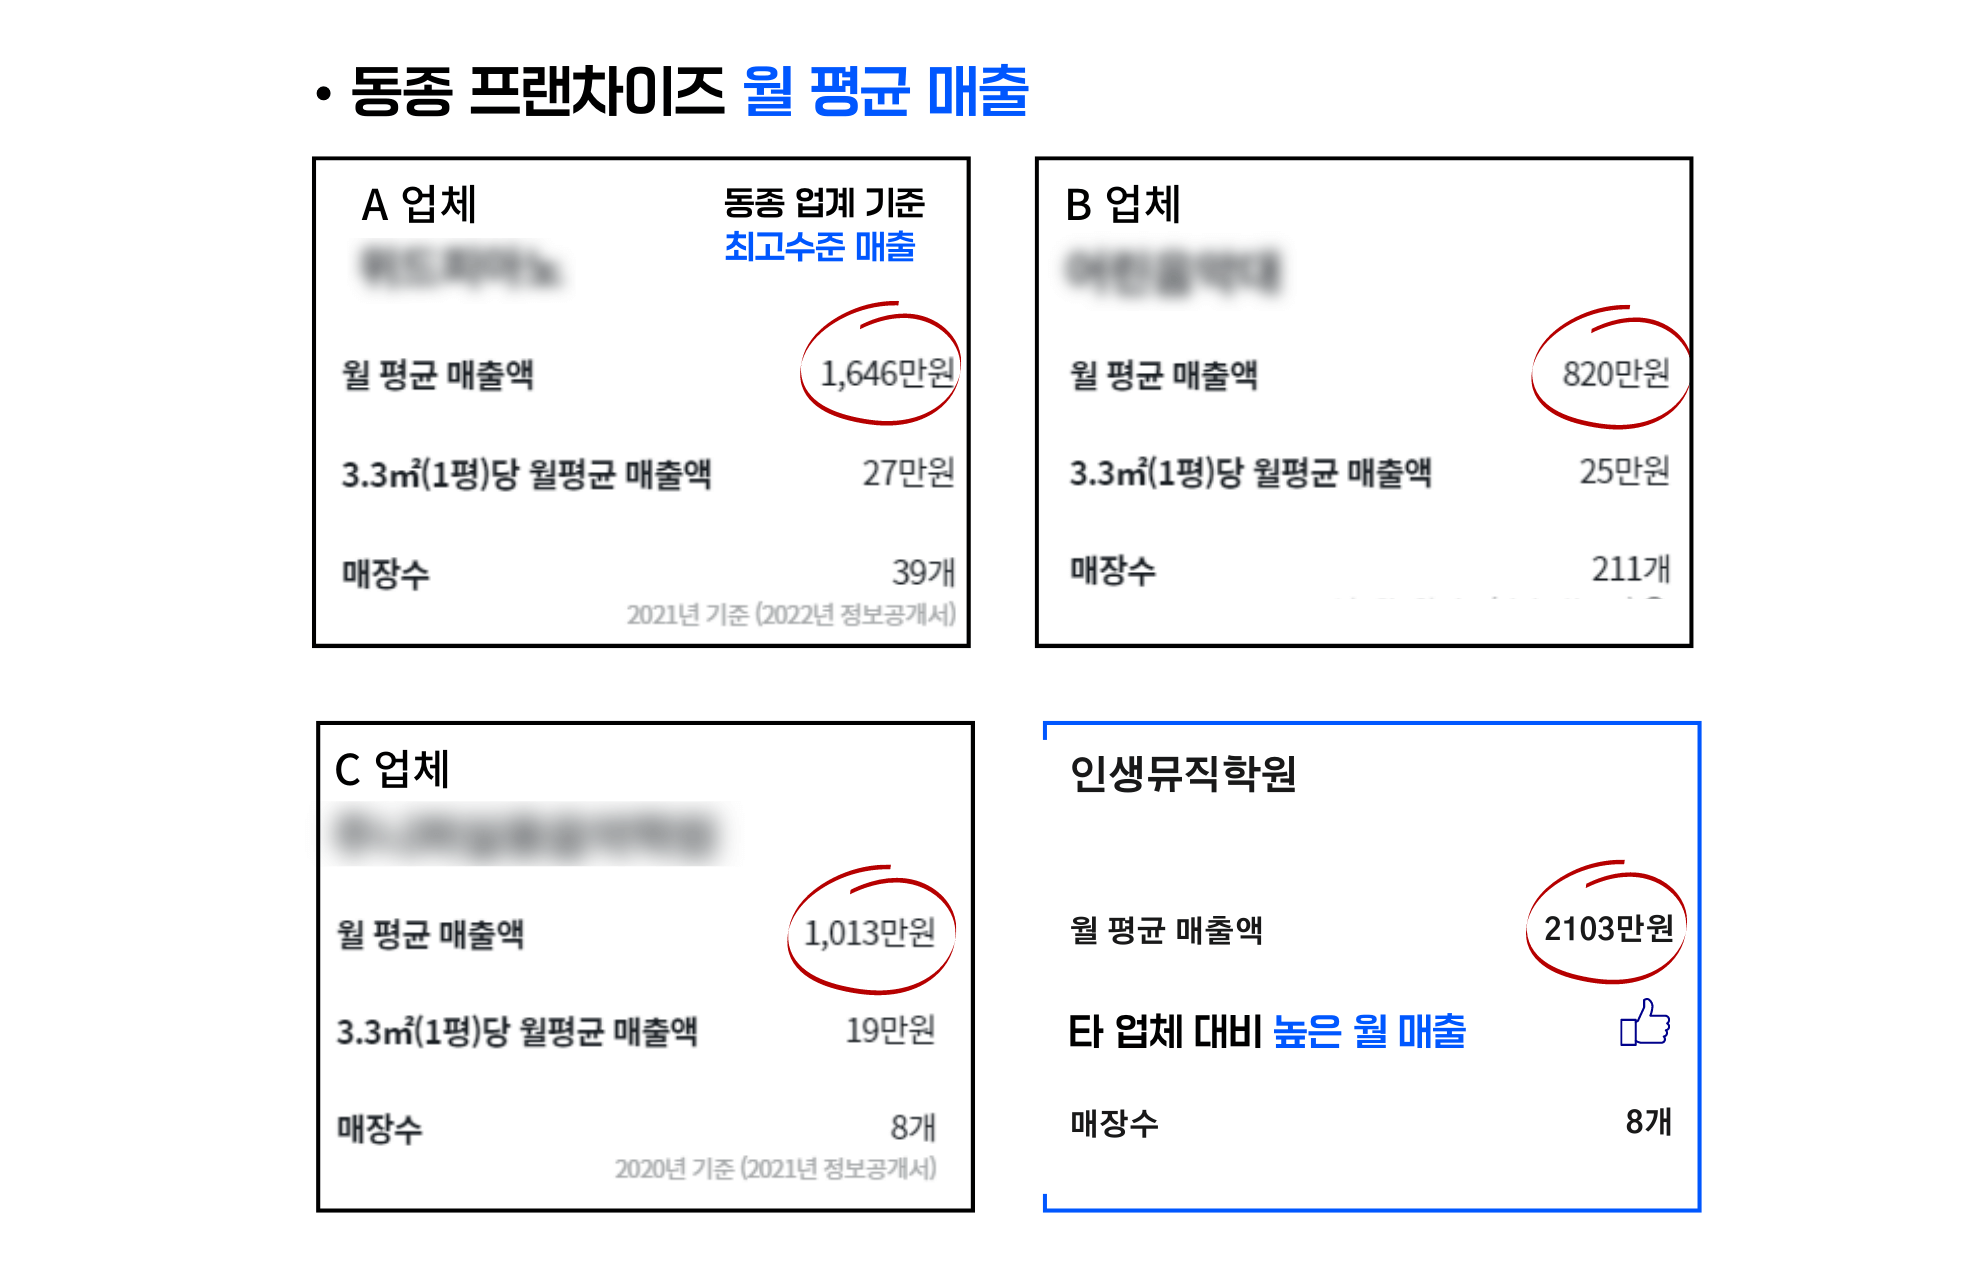
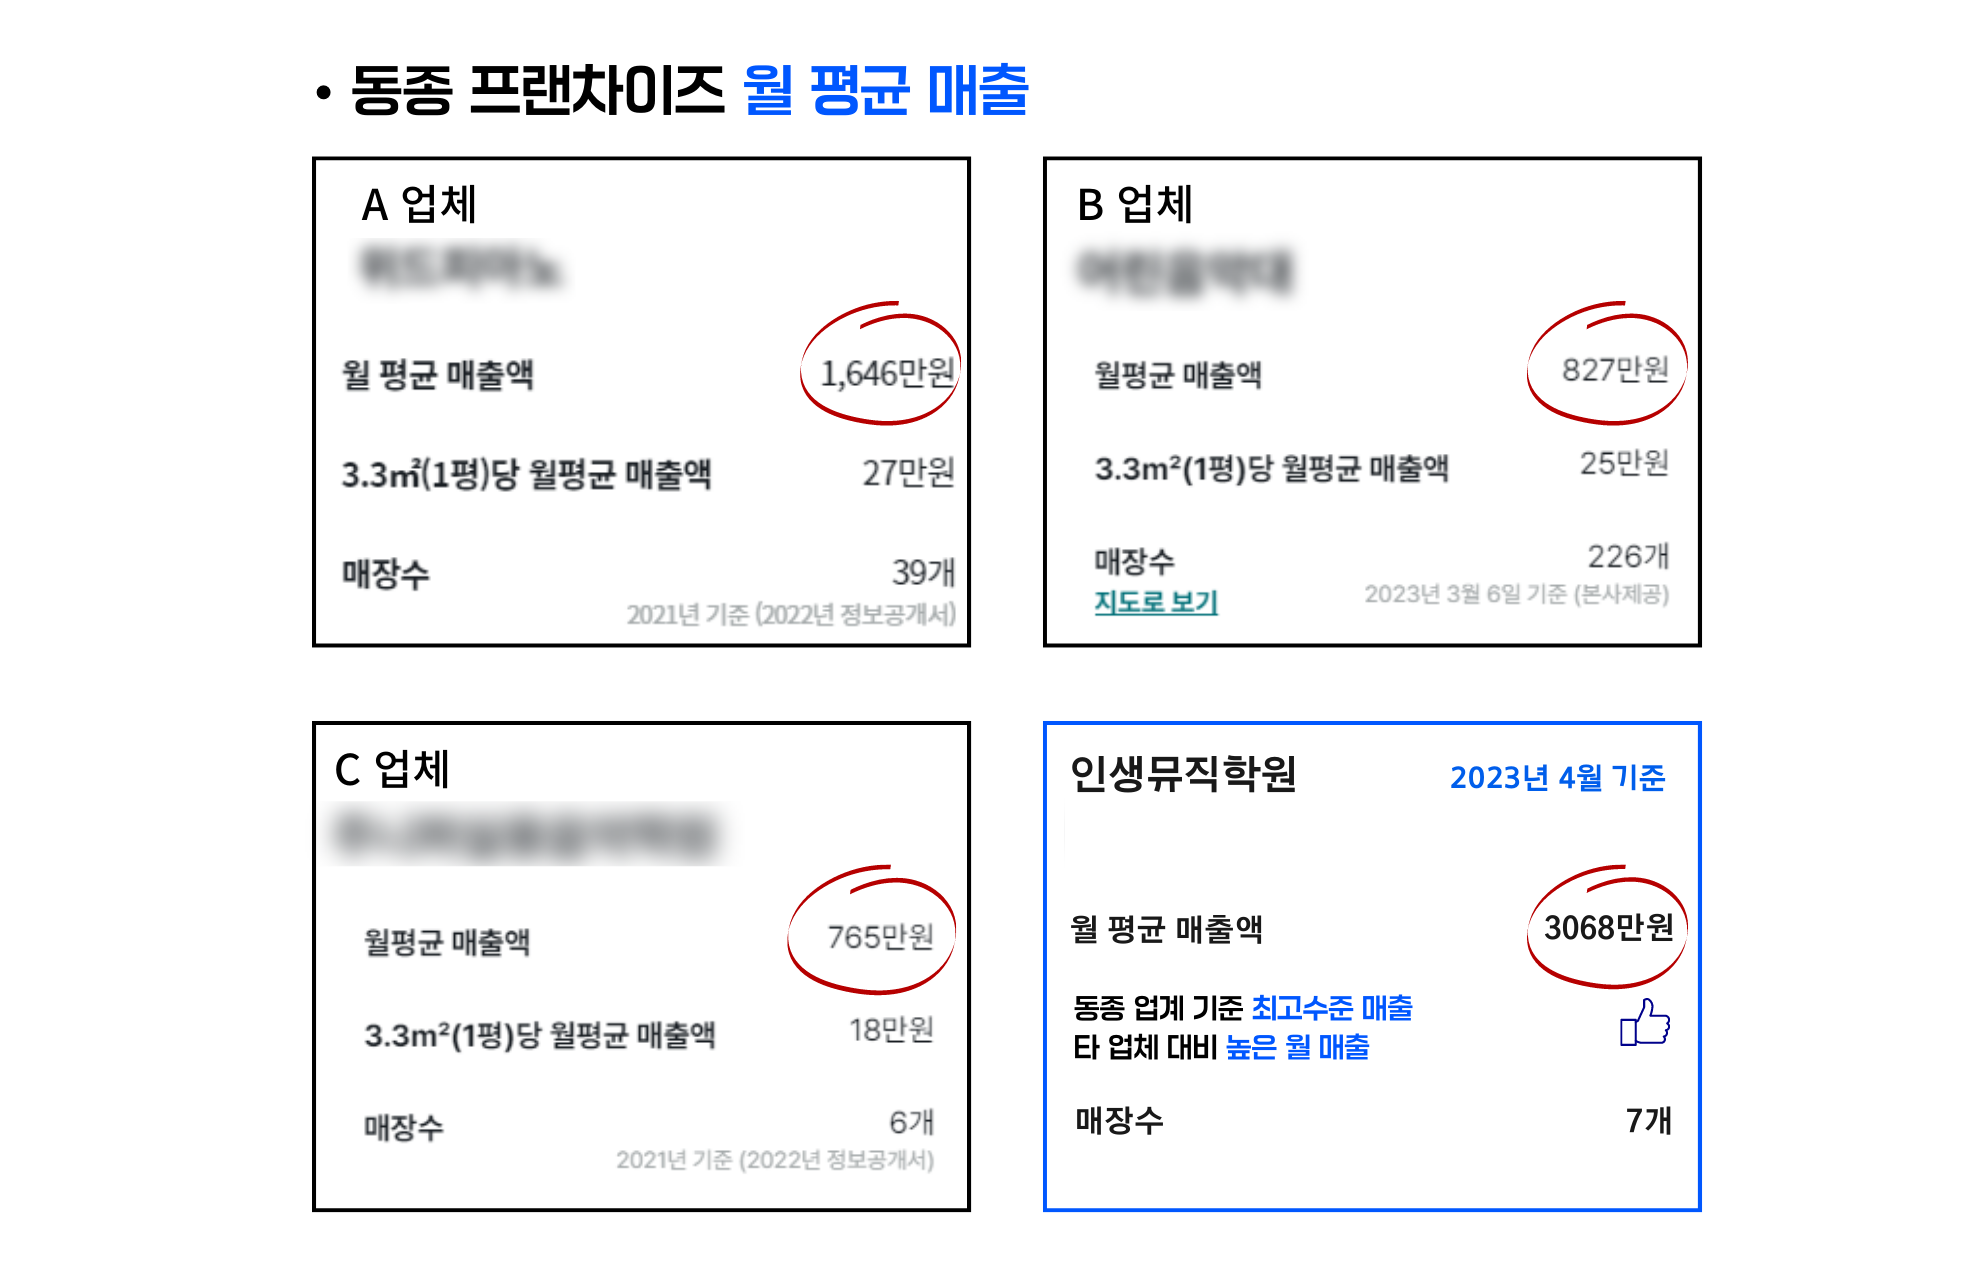
마지막 사진 교체, 링크 교체 완료

diff --git a/map.html b/map.html
@@ -178,7 +178,7 @@
 
           <a href="">
           <div class="button button_review">
-            <a href="">
+            <a href="https://blog.naver.com/PostList.naver?blogId=djaalswp1537&from=postList&categoryNo=26 ">
               <div class="text">퇴근송 후기 보러가기</div>
             </a>
           </div>
@@ -277,7 +277,7 @@
         <div class="button_part">
           <a href="">
           <div class="button button_class">
-            <a href="https://booking.naver.com/booking/6/bizes/828849?theme=place&entry=pll&area=pll">
+            <a href="https://booking.naver.com/booking/13/bizes/705409?area=pll">
               <div class="text">체험 클래스 신청하기</div>
             </a>
           </div>
@@ -285,7 +285,7 @@
 
           <a href="">
           <div class="button button_review">
-            <a href="">
+            <a href="https://blog.naver.com/PostList.naver?blogId=inmuu_cheongju&from=postList&categoryNo=24">
               <div class="text">퇴근송 후기 보러가기</div>
             </a>
           </div>
@@ -338,7 +338,7 @@
 
           <a href="">
           <div class="button button_review">
-            <a href="">
+            <a href="https://blog.naver.com/PostList.naver?blogId=e-music&from=postList&categoryNo=33">
               <div class="text">퇴근송 후기 보러가기</div>
             </a>
           </div>
@@ -392,7 +392,7 @@
 
           <a href="">
           <div class="button button_review">
-            <a href="">
+            <a href="https://blog.naver.com/PostList.naver?blogId=tt9817&from=postList&categoryNo=17&parentCategoryNo=17">
               <div class="text">퇴근송 후기 보러가기</div>
             </a>
           </div>
@@ -444,7 +444,7 @@
 
           <a href="">
           <div class="button button_review">
-            <a href="">
+            <a href=" https://blog.naver.com/PostList.naver?blogId=in_muu_pyeongtaek&from=postList&categoryNo=8">
               <div class="text">퇴근송 후기 보러가기</div>
             </a>
           </div>

diff --git a/our_contents/band_day.html b/our_contents/band_day.html
@@ -104,9 +104,9 @@
         </div>
       </div>
       <div class="video-area">
-        <a href="https://blog.naver.com/decide1111/222710951266">
-        <img src="/img/our_contents/BAND_DAY/band_day.png" alt="">
-        </a>
+        <iframe src="https://www.youtube.com/embed/O3zSX48cneo" title="YouTube video player" frameborder="0"
+          allow="accelerometer; autoplay; clipboard-write; encrypted-media; gyroscope; picture-in-picture"
+          allowfullscreen></iframe>
       </div>
 
     </div>

diff --git a/our_contents/band_day.css b/our_contents/band_day.css
@@ -186,7 +186,7 @@ html, body{
 }
 
 
-.video-container > .video-area > a > img {
+.video-container > .video-area > iframe {
   
   width: 700px;
   height: 360px;
